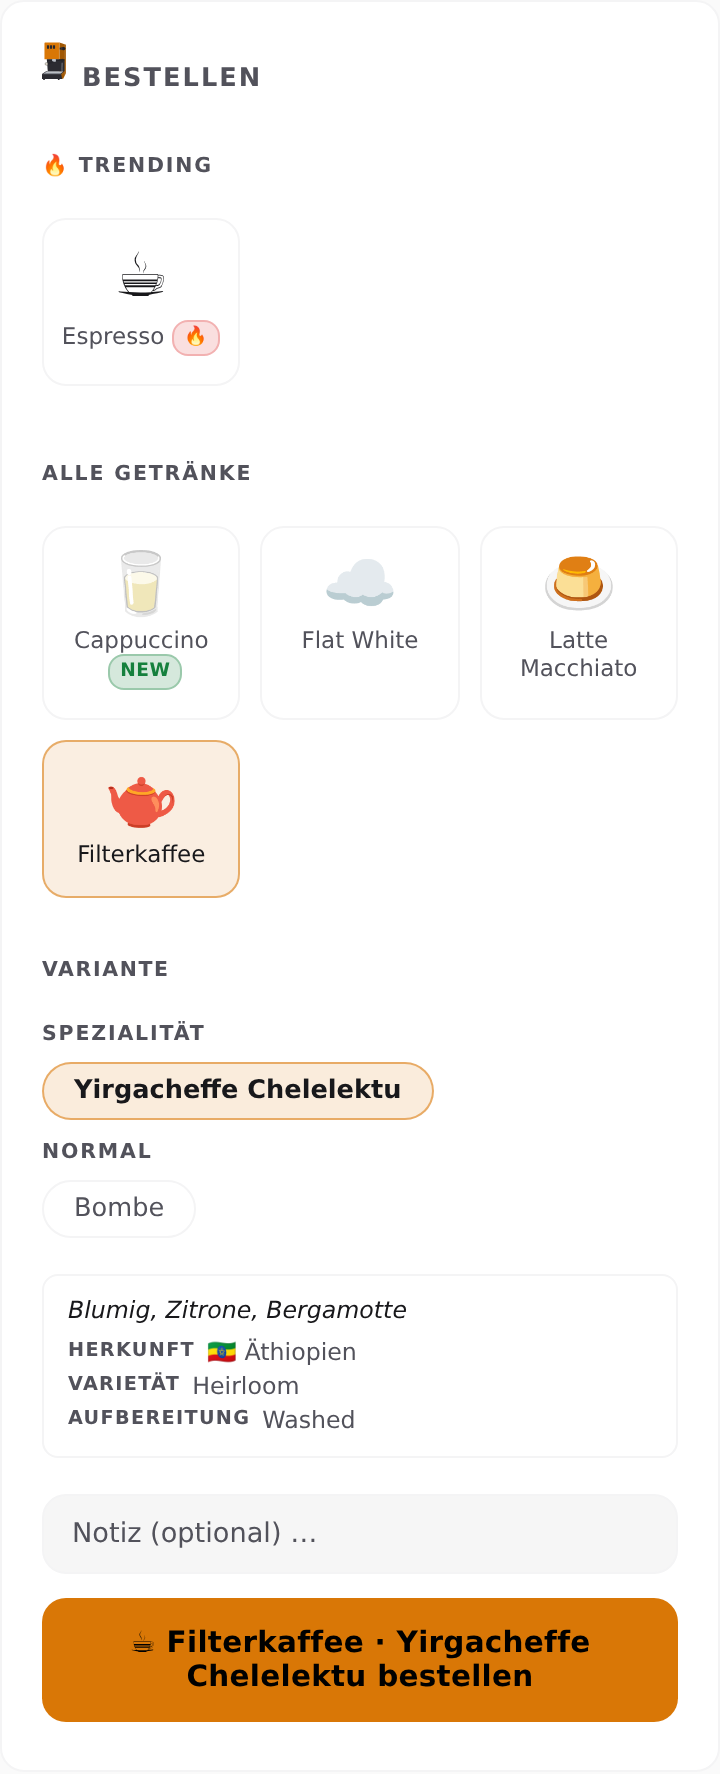
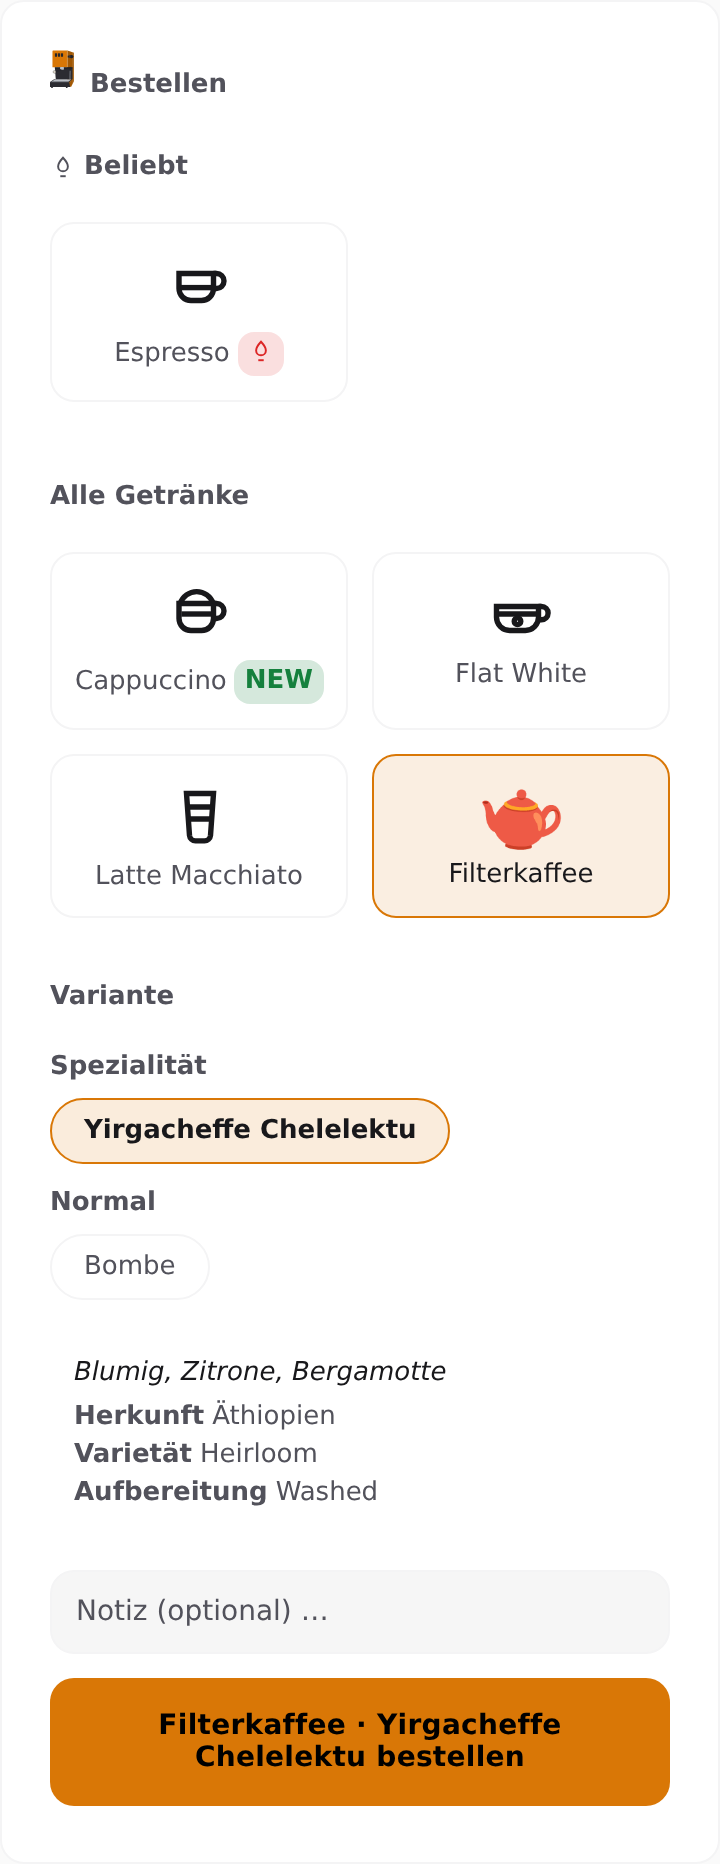
chore(release): v1.21.0
Ship the "Instrument" redesign (#90) — cool graphite tokens, drawn icons,
sentence-case labels — plus the fixes/groundwork merged alongside it:
country-flag removal, trending-title i18n, GLP-TOKENS v1 type
scale/spacing/--glp-aline groundwork, and the screenshot-fixture fix.

- Bump GLP_ORDER_CARD_VERSION to 1.21.0
- Finalize the CHANGELOG [Unreleased] section under a 1.21.0 heading
- Regenerate docs/screenshots/card-light.png and card-dark-accent.png
  (card.png was already current from the redesign PR itself)
- Fix stale README Languages section (still listed only DE/EN; the card
  has supported IT/FR/ES/NL since v1.14.0)

diff --git a/glp-order-card.js b/glp-order-card.js
@@ -1,4 +1,4 @@
-const GLP_ORDER_CARD_VERSION = '1.20.0';
+const GLP_ORDER_CARD_VERSION = '1.21.0';
 
 // Menu items younger than this show the NEW badge (config: new_badge_days)
 const NEW_BADGE_DAYS_DEFAULT = 7;

diff --git a/CHANGELOG.md b/CHANGELOG.md
@@ -1,6 +1,8 @@
 # Changelog
 
 ## [Unreleased]
+
+## [1.21.0] – 2026-08-16
 ### Fixed
 - **The screenshot fixture never exercised the drink icons at all.** Its menu entries carried no `id`, only `name` and `emoji`, so `ICONS.of(item.id)` always missed and every tile fell through to the stored-emoji path — the documentation screenshot showed the exact opposite of what the card does with a default menu. The fixture now carries the ids the app's `DEFAULT_MENU` actually assigns, and keeps one deliberately id-less entry so both paths stay visible in one image. #90
 

diff --git a/README.md b/README.md
@@ -127,7 +127,7 @@ The barista manages orders from the **Bestellungen** tab in the GLP web UI.
 
 ## Languages
 
-Auto-detected from the browser locale. Currently supported: 🇩🇪 DE, 🇬🇧 EN.
+Auto-detected from the browser locale. Currently supported: 🇩🇪 DE, 🇬🇧 EN, 🇮🇹 IT, 🇫🇷 FR, 🇪🇸 ES, 🇳🇱 NL. Any other locale falls back to English.
 
 ---
 
